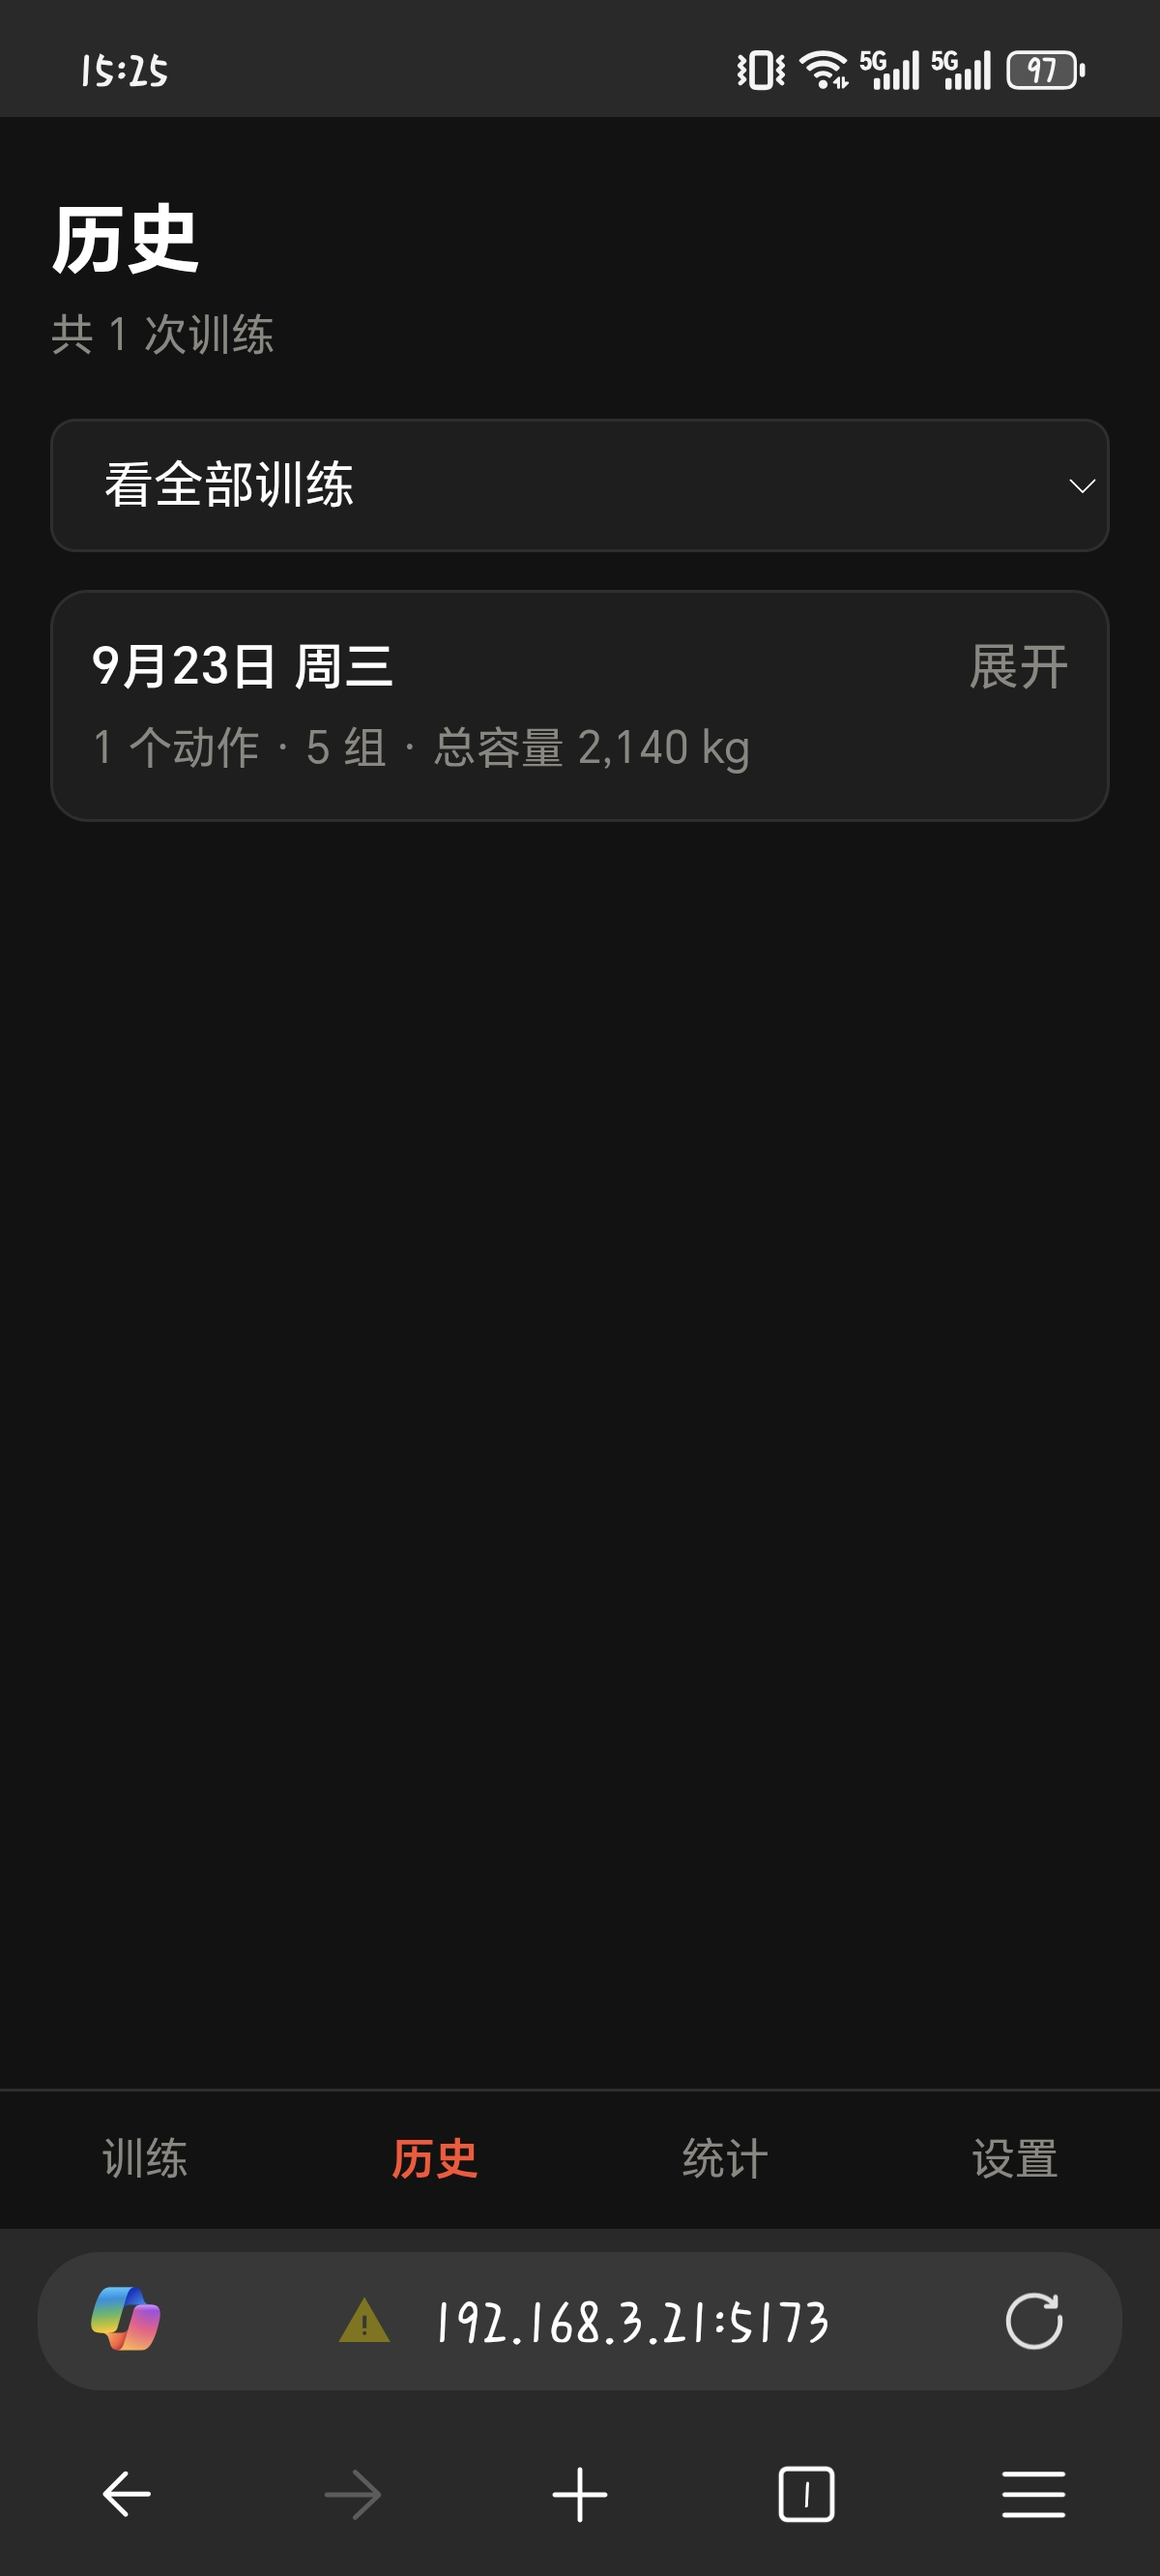
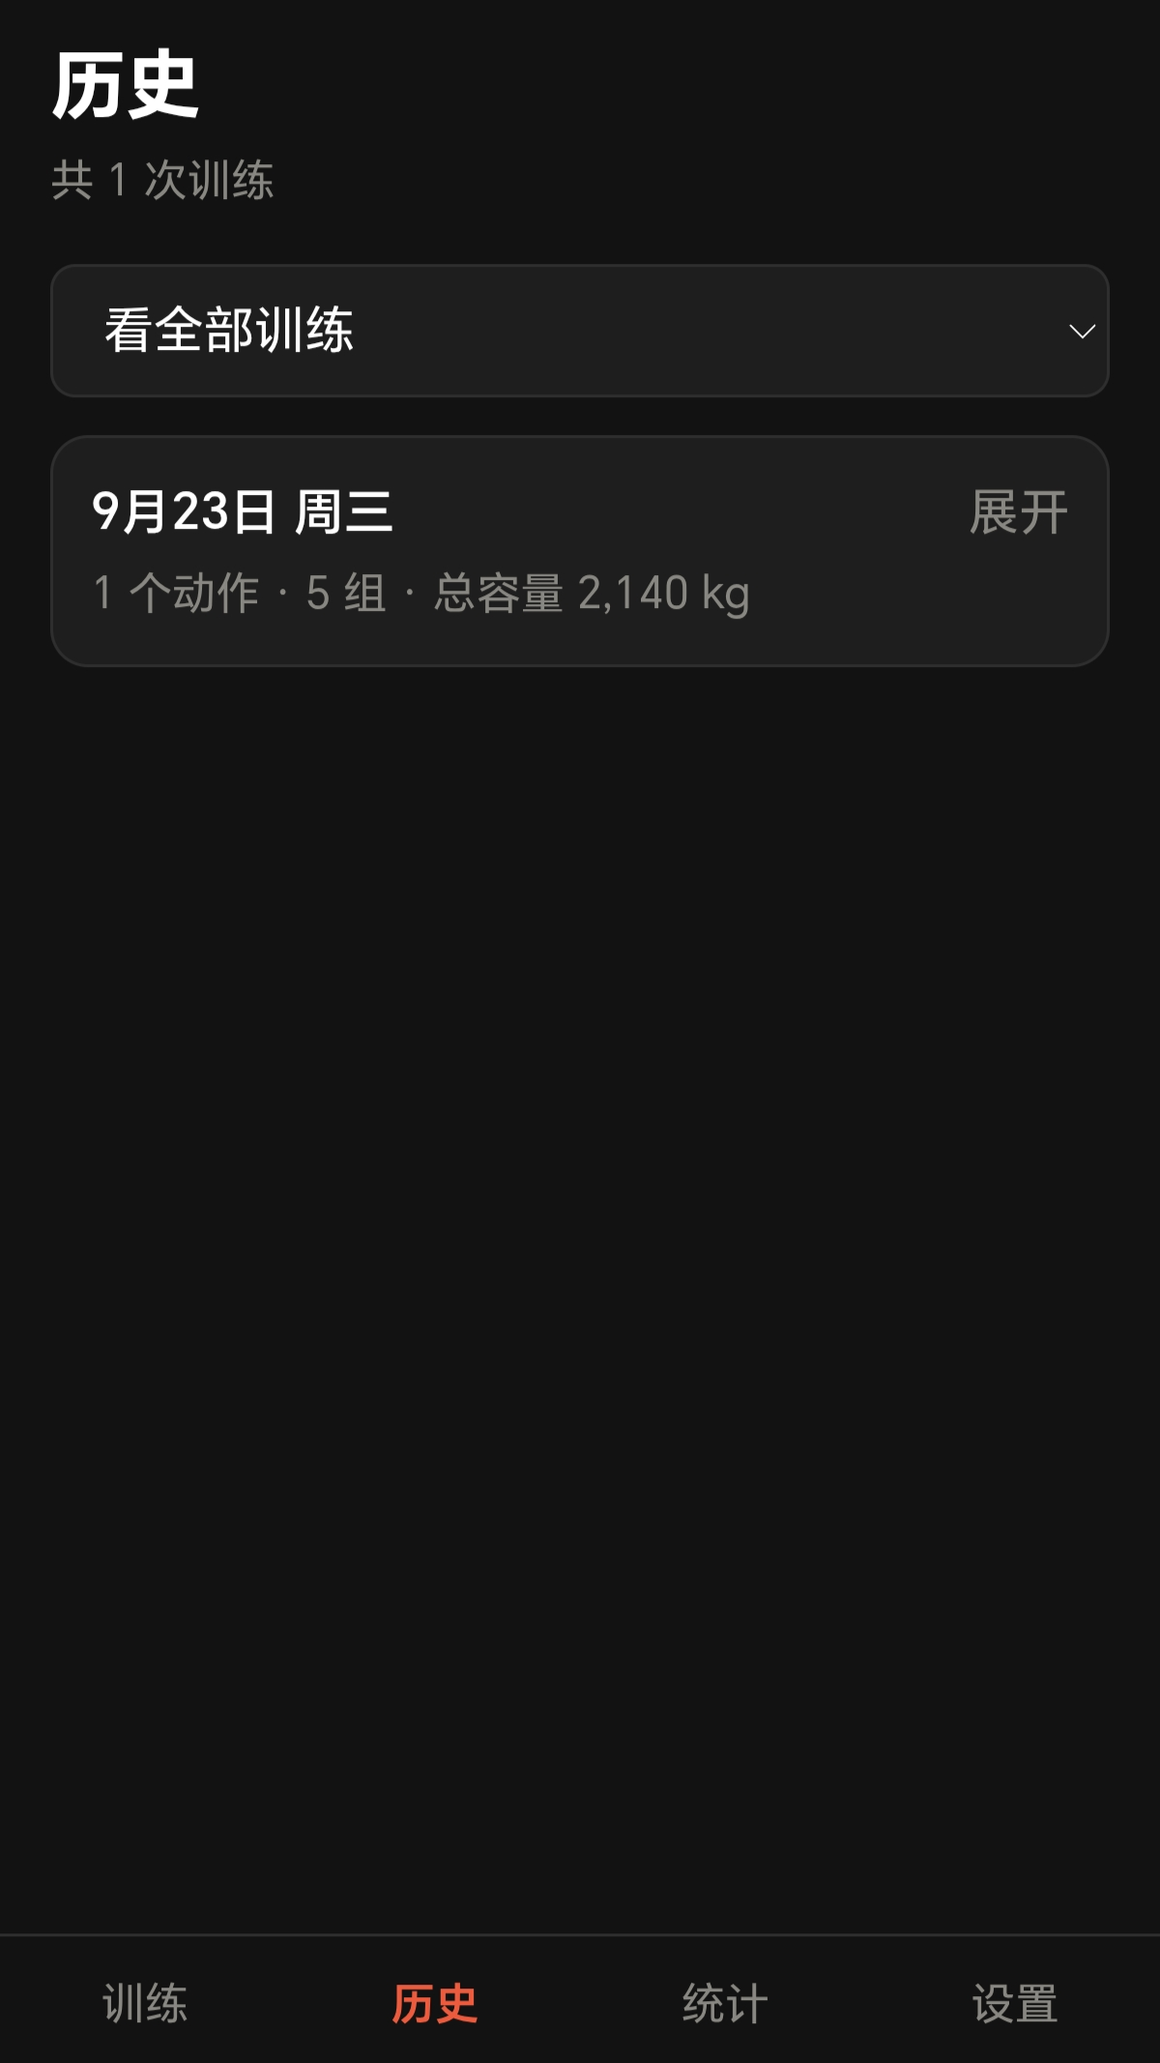
README 用上真机截图
主人把 screenshots/ 里那三张重新裁过：1200x2664 → 1200x2133，
裁掉了顶部的手机状态栏和底部的浏览器地址栏、安卓导航键。
这样图和 README 里"装到桌面像真 App、没有地址栏"那句就不打架了。

- 删掉开头那三张电脑截的 shots/*.png（245px 并排）
- 新增「长什么样」一节：三张真机截图 600px 竖排，每张配一句说明
- 不再引用 shots/（文件先留着没删，主人说了再处理）

图上的说明都照实写：统计那张只练过一次所以只有一根柱子，
这句话也写进去了，不假装数据很多。

diff --git a/README.md b/README.md
@@ -4,10 +4,31 @@
 
 **没有账号，没有服务器，不做任何联网请求。** 你的训练数据自始至终只存在你自己手机的浏览器里，不会上传到任何地方。
 
+---
+
+## 长什么样
+
+三张都是**真机上直接截的**，没有美化。
+
 <p align="center">
-  <img src="shots/1-train.png" width="245" alt="训练页" />
-  <img src="shots/2-history.png" width="245" alt="历史页" />
-  <img src="shots/3-stats.png" width="245" alt="统计页" />
+  <img src="screenshots/train.png" width="600" alt="训练页" />
+  <br />
+  <em>训练页 —— 填好重量和次数，按那个橙红色的 ✓ 就记下了一组。<br />
+  按下去的那一瞬间数据就已经存进手机了，练到一半锁屏、关浏览器都不会丢。</em>
+</p>
+
+<p align="center">
+  <img src="screenshots/history.png" width="600" alt="历史页" />
+  <br />
+  <em>历史页 —— 按日期倒着排，点「展开」看那天的每一组。<br />
+  上面那个下拉框可以只看某一个动作的历史，用来跟自己三个月前的重量对比。</em>
+</p>
+
+<p align="center">
+  <img src="screenshots/stats.png" width="600" alt="统计页" />
+  <br />
+  <em>统计页 —— 每周总容量的柱状图（截这张时只练过一次，所以只有一根柱子）。<br />
+  往下还有单个动作的最大重量、总容量、估算 1RM 三条曲线。</em>
 </p>
 
 ---
